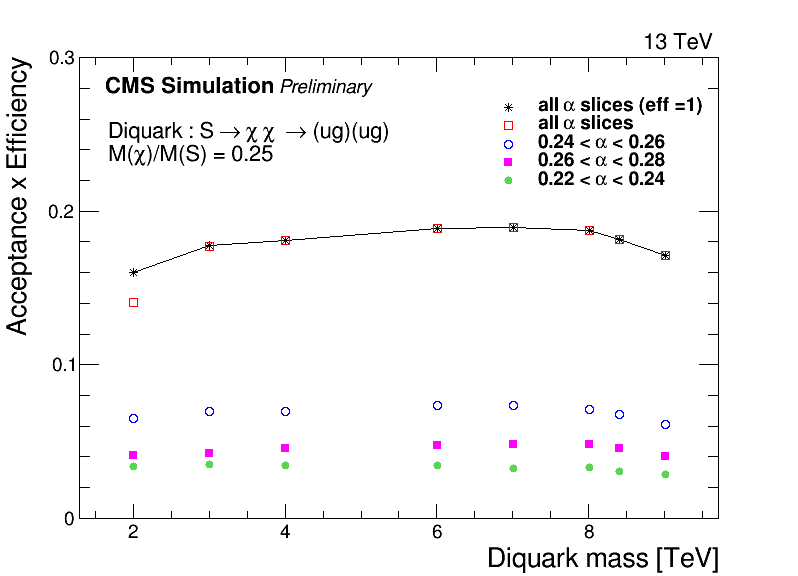
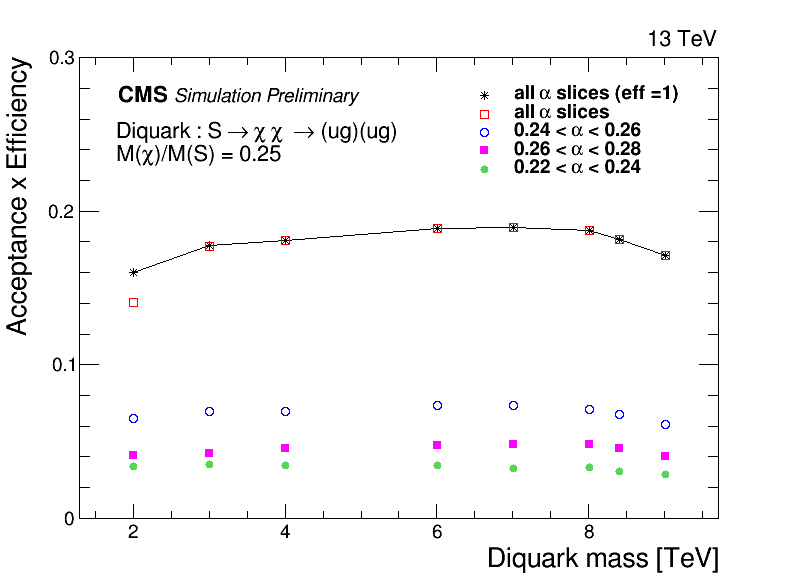
Add my new changes

diff --git a/Figure_5/acceptanceVSmass_fig5.C b/Figure_5/acceptanceVSmass_fig5.C
@@ -61,7 +61,7 @@ TGraph *gr_accEff = new TGraphAsymmErrors(8, mass, accEff);
   gr_accEff->SetMarkerStyle(25);
   gr_accEff->Draw("P"); //L*"); 
 
-  TLegend *leg1 =new TLegend(.90, .67, .60, .83); //.90, .75, .60, .93
+  TLegend *leg1 =new TLegend(0.57, 0.69, 0.87, 0.85); //.90, .75, .60, .93
   leg1->SetFillColor(0);
   leg1->SetBorderSize(0);
   leg1->SetTextSize(0.035);
@@ -73,24 +73,24 @@ TGraph *gr_accEff = new TGraphAsymmErrors(8, mass, accEff);
 
   leg1->Draw("same");
 
- TPaveText *paveCMS2 = new TPaveText(0.9,0.96,0.8,0.9,"NDC");
+ TPaveText *paveCMS2 = new TPaveText(0.805,0.92,0.905,0.95,"NDC");
  paveCMS2->AddText("#bf{13 TeV}");
  paveCMS2->SetFillColor(0);
  paveCMS2->SetBorderSize(0);
  paveCMS2->SetTextSize(0.04);
  paveCMS2->Draw();
 
- TPaveText *paveCMS = new TPaveText(0.2,0.85,0.4,0.85,"NDC"); //for PAS
-  paveCMS->AddText("CMS Simulation #scale[0.9]{#it{#bf{Preliminary}}}"); //for PAS
- //TPaveText *paveCMS = new TPaveText(0.07,0.85,0.4,0.85,"NDC"); //for PAPER
- //paveCMS->AddText("CMS Simulation"); //for PAPER
+ //TPaveText *paveCMS = new TPaveText(0.2,0.83,0.4,0.84,"NDC"); //for PAS
+  //paveCMS->AddText("CMS #scale[0.9]{#it{#bf{Simulation Preliminary}}}"); //for PAS
+ TPaveText *paveCMS = new TPaveText(0.135,0.83,0.335,0.84,"NDC"); //for PAPER
+ paveCMS->AddText("CMS #scale[0.9]{#it{#bf{Simulation}}}"); //for PAPER
 
  paveCMS->SetFillColor(0);
  paveCMS->SetBorderSize(0);
  paveCMS->SetTextSize(0.04);
  paveCMS->Draw();
 
- TPaveText *pave2 = new TPaveText(0.12,0.7, .44, .78,"NDC");
+ TPaveText *pave2 = new TPaveText(0.13,0.7, .45, .78,"NDC");
  pave2->SetTextAlign(11); //center alignment
  pave2->AddText("Diquark : S #rightarrow #chi #chi  #rightarrow (ug)(ug)" );
  pave2->AddText("M(#chi)/M(S) = 0.25");
@@ -102,13 +102,13 @@ TGraph *gr_accEff = new TGraphAsymmErrors(8, mass, accEff);
 
 // cv->SaveAs("accVSmass.pdf");
  
- cv->SaveAs("Figure_5_LHS_PAS.C");
- cv->SaveAs("Figure_5_LHS_PAS.pdf");
- cv->SaveAs("Figure_5_LHS_PAS.png");
+ //cv->SaveAs("Figure_5_LHS_PAS.C");
+ //cv->SaveAs("Figure_5_LHS_PAS.pdf");
+ //cv->SaveAs("Figure_5_LHS_PAS.png");
 
-// cv->SaveAs("Figure_5_LHS_PAPER.C");
-// cv->SaveAs("Figure_5_LHS_PAPER.pdf");
-// cv->SaveAs("Figure_5_LHS_PAPER.png");
+ cv->SaveAs("Figure_5_LHS_PAPER.C");
+ cv->SaveAs("Figure_5_LHS_PAPER.pdf");
+ cv->SaveAs("Figure_5_LHS_PAPER.png");
  
 
 }

diff --git a/Figure_5/Figure_5_LHS_PAS.C b/Figure_5/Figure_5_LHS_PAS.C
@@ -1,7 +1,7 @@
 void Figure_5_LHS_PAS()
 {
 //=========Macro generated from canvas: cv/cv
-//=========  (Mon Jan 31 13:25:09 2022) by ROOT version 6.24/06
+//=========  (Wed Feb  2 11:28:21 2022) by ROOT version 6.24/06
    TCanvas *cv = new TCanvas("cv", "cv",130,121,800,600);
    gStyle->SetOptStat(0);
    gStyle->SetOptTitle(0);
@@ -410,7 +410,7 @@ void Figure_5_LHS_PAS()
    pt->SetBorderSize(0);
    pt->SetFillColor(0);
    pt->SetTextSize(0.04);
-   pt_LaTex = pt->AddText("CMS Simulation #scale[0.9]{#it{#bf{Preliminary}}}");
+   pt_LaTex = pt->AddText("CMS #scale[0.9]{#it{#bf{Simulation Preliminary}}}");
    pt->Draw();
    
    pt = new TPaveText(0,0,0,0,"brNDC");

diff --git a/Figure_5/Figure_5_LHS_PAPER.C b/Figure_5/Figure_5_LHS_PAPER.C
@@ -1,7 +1,7 @@
-void Figure_5_PAPER()
+void Figure_5_LHS_PAPER()
 {
 //=========Macro generated from canvas: cv/cv
-//=========  (Mon Jan 31 13:21:48 2022) by ROOT version 6.24/06
+//=========  (Wed Feb  2 11:33:34 2022) by ROOT version 6.24/06
    TCanvas *cv = new TCanvas("cv", "cv",130,121,800,600);
    gStyle->SetOptStat(0);
    gStyle->SetOptTitle(0);
@@ -410,7 +410,7 @@ void Figure_5_PAPER()
    pt->SetBorderSize(0);
    pt->SetFillColor(0);
    pt->SetTextSize(0.04);
-   pt_LaTex = pt->AddText("CMS Simulation");
+   pt_LaTex = pt->AddText("CMS #scale[0.9]{#it{#bf{Simulation}}}");
    pt->Draw();
    
    pt = new TPaveText(0,0,0,0,"brNDC");
